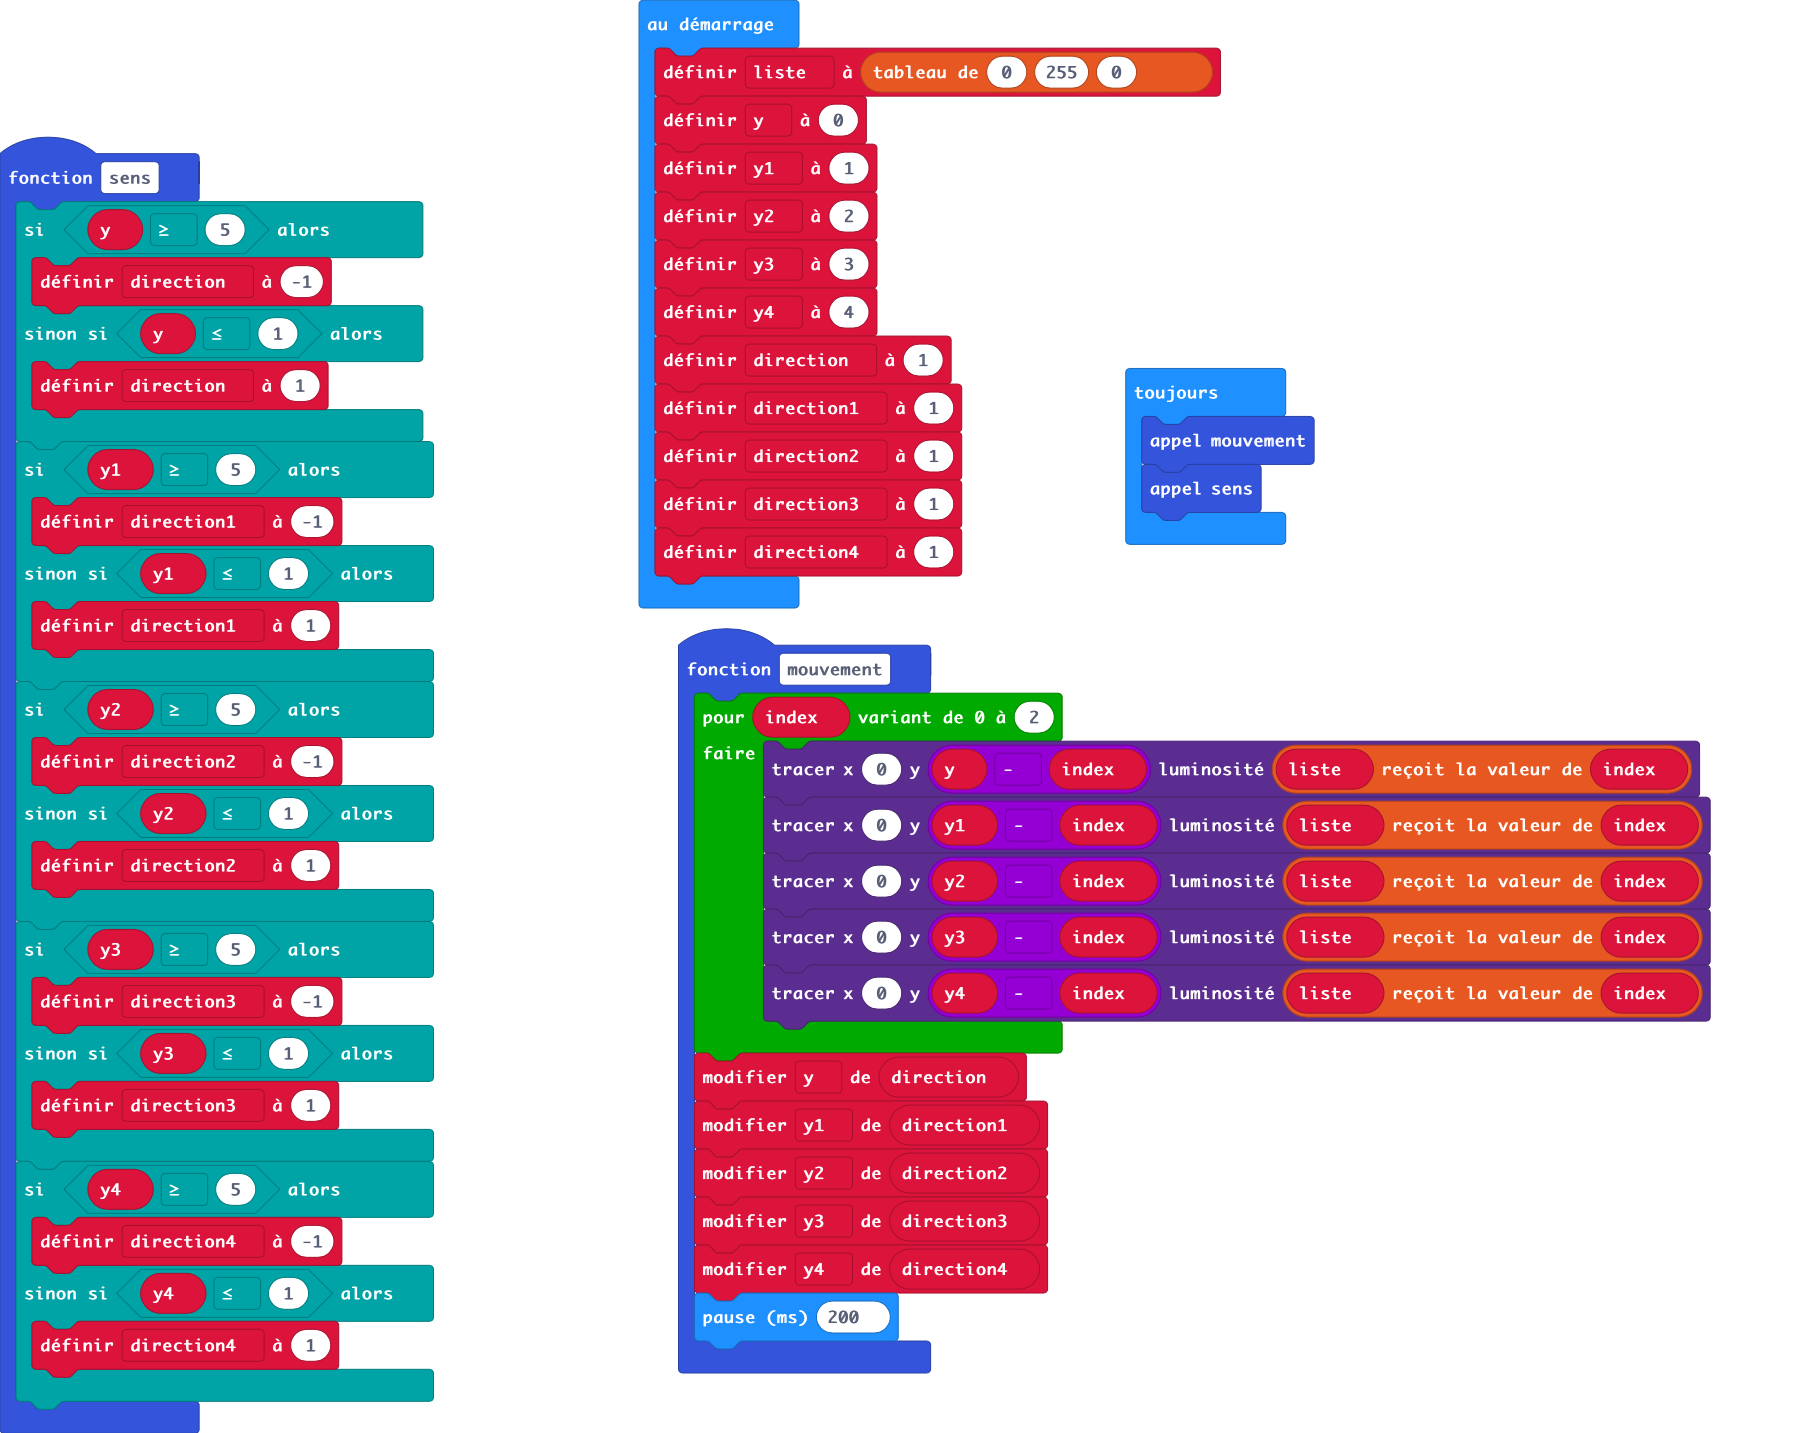
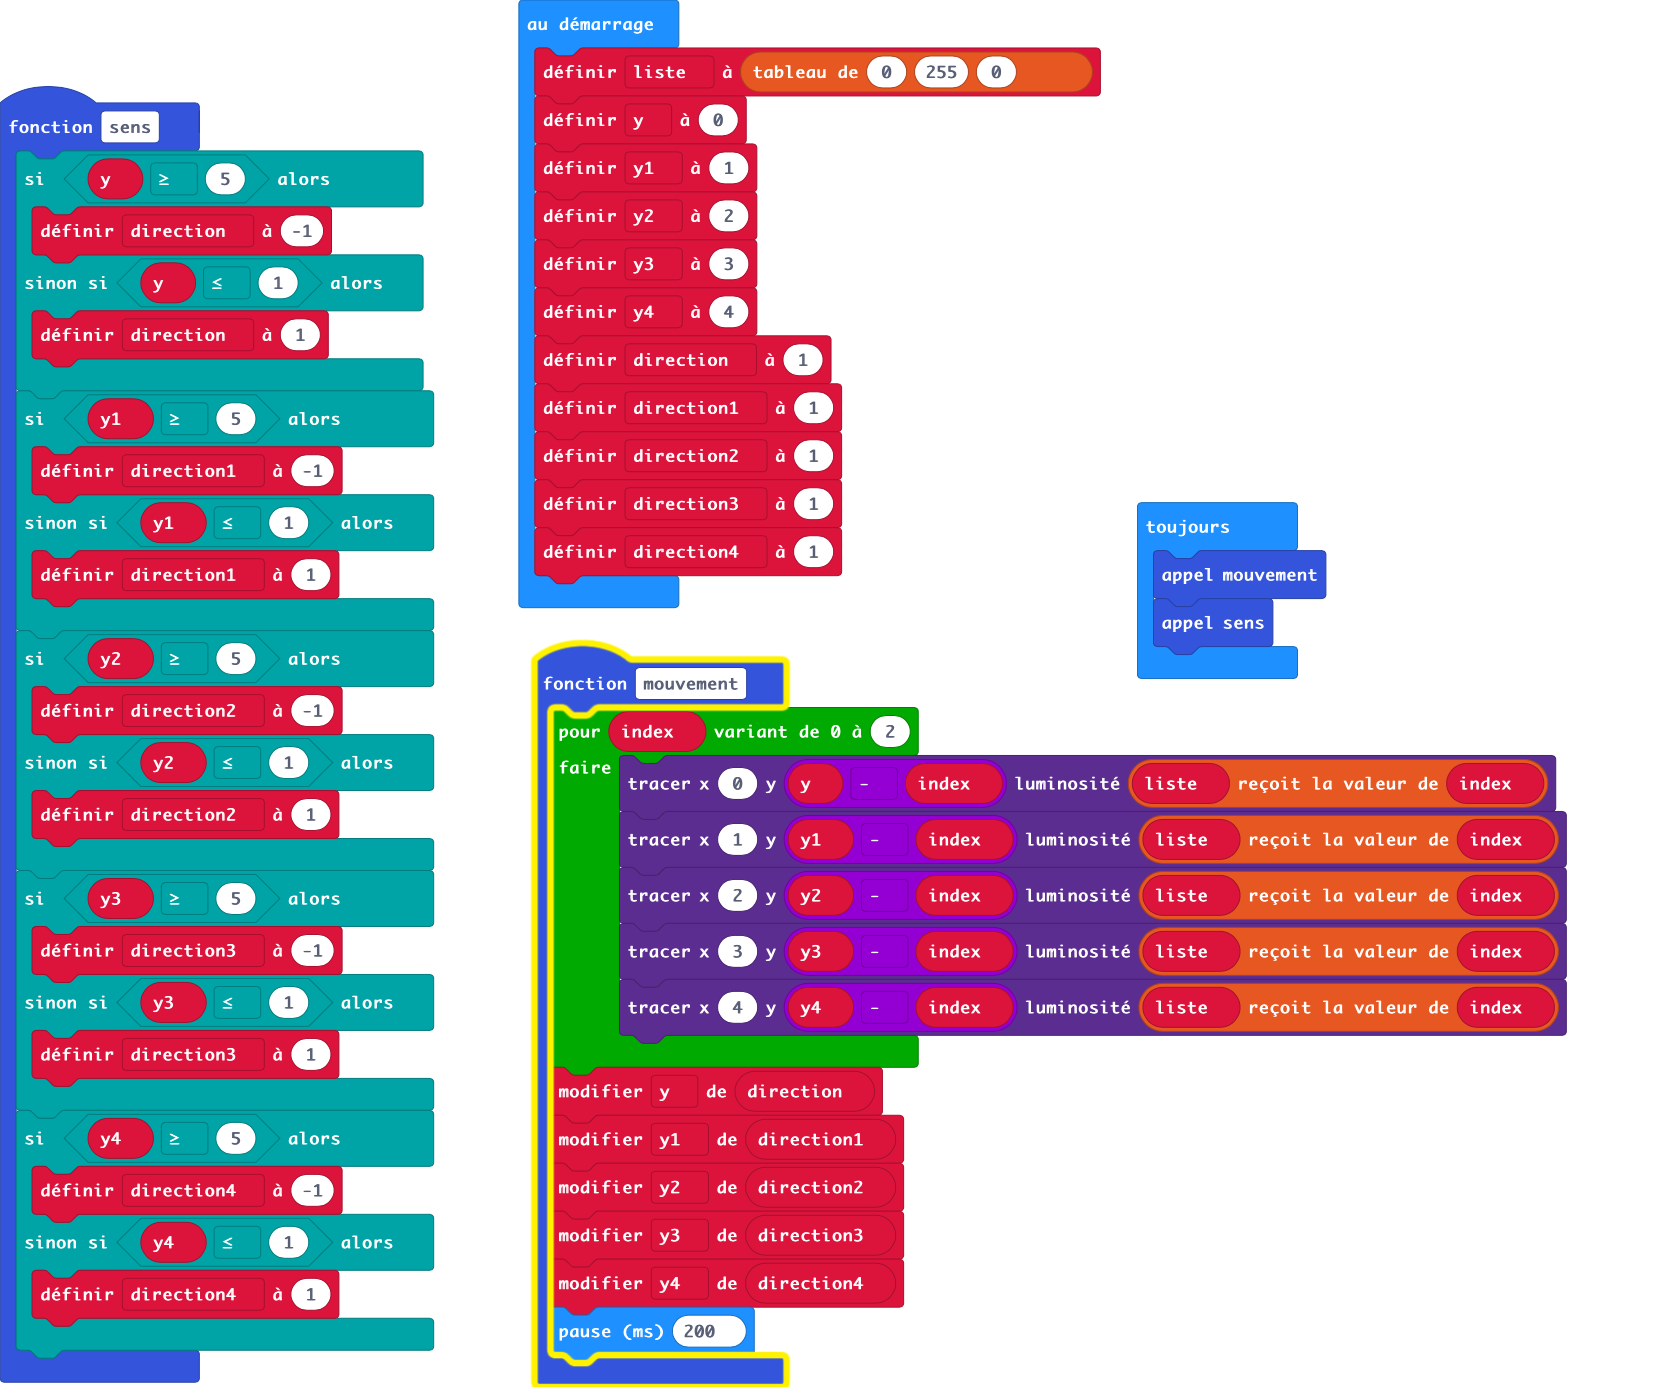
Mise à jour main.blocks, main.ts

diff --git a/main.ts b/main.ts
@@ -28,10 +28,10 @@ function sens () {
 function mouvement () {
     for (let index = 0; index <= 2; index++) {
         led.plotBrightness(0, y - index, liste[index])
-        led.plotBrightness(0, y1 - index, liste[index])
-        led.plotBrightness(0, y2 - index, liste[index])
-        led.plotBrightness(0, y3 - index, liste[index])
-        led.plotBrightness(0, y4 - index, liste[index])
+        led.plotBrightness(1, y1 - index, liste[index])
+        led.plotBrightness(2, y2 - index, liste[index])
+        led.plotBrightness(3, y3 - index, liste[index])
+        led.plotBrightness(4, y4 - index, liste[index])
     }
     y += direction
     y1 += direction1
